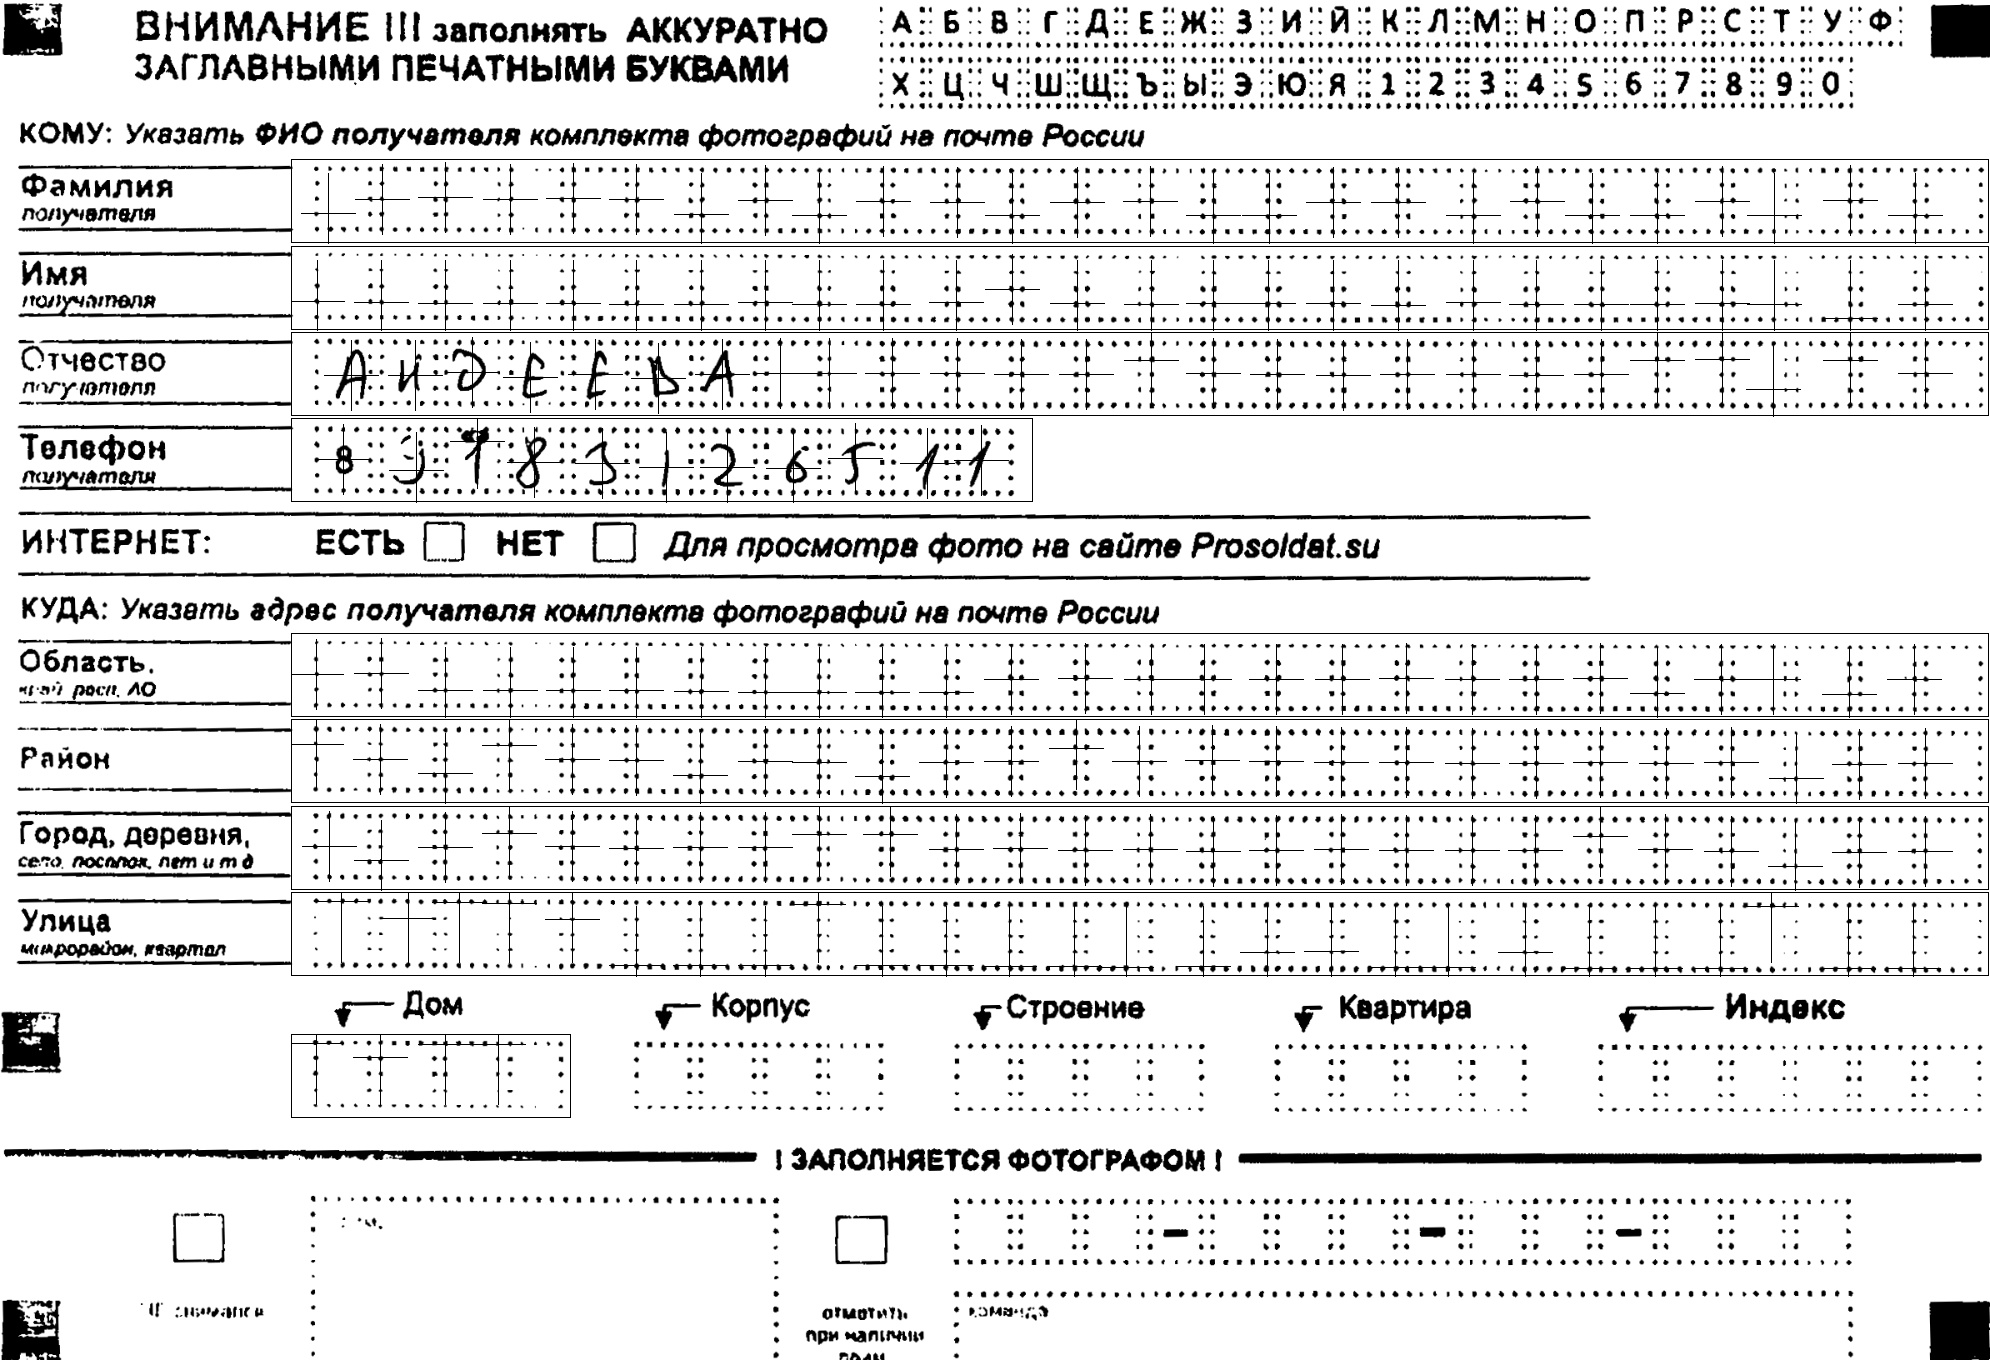
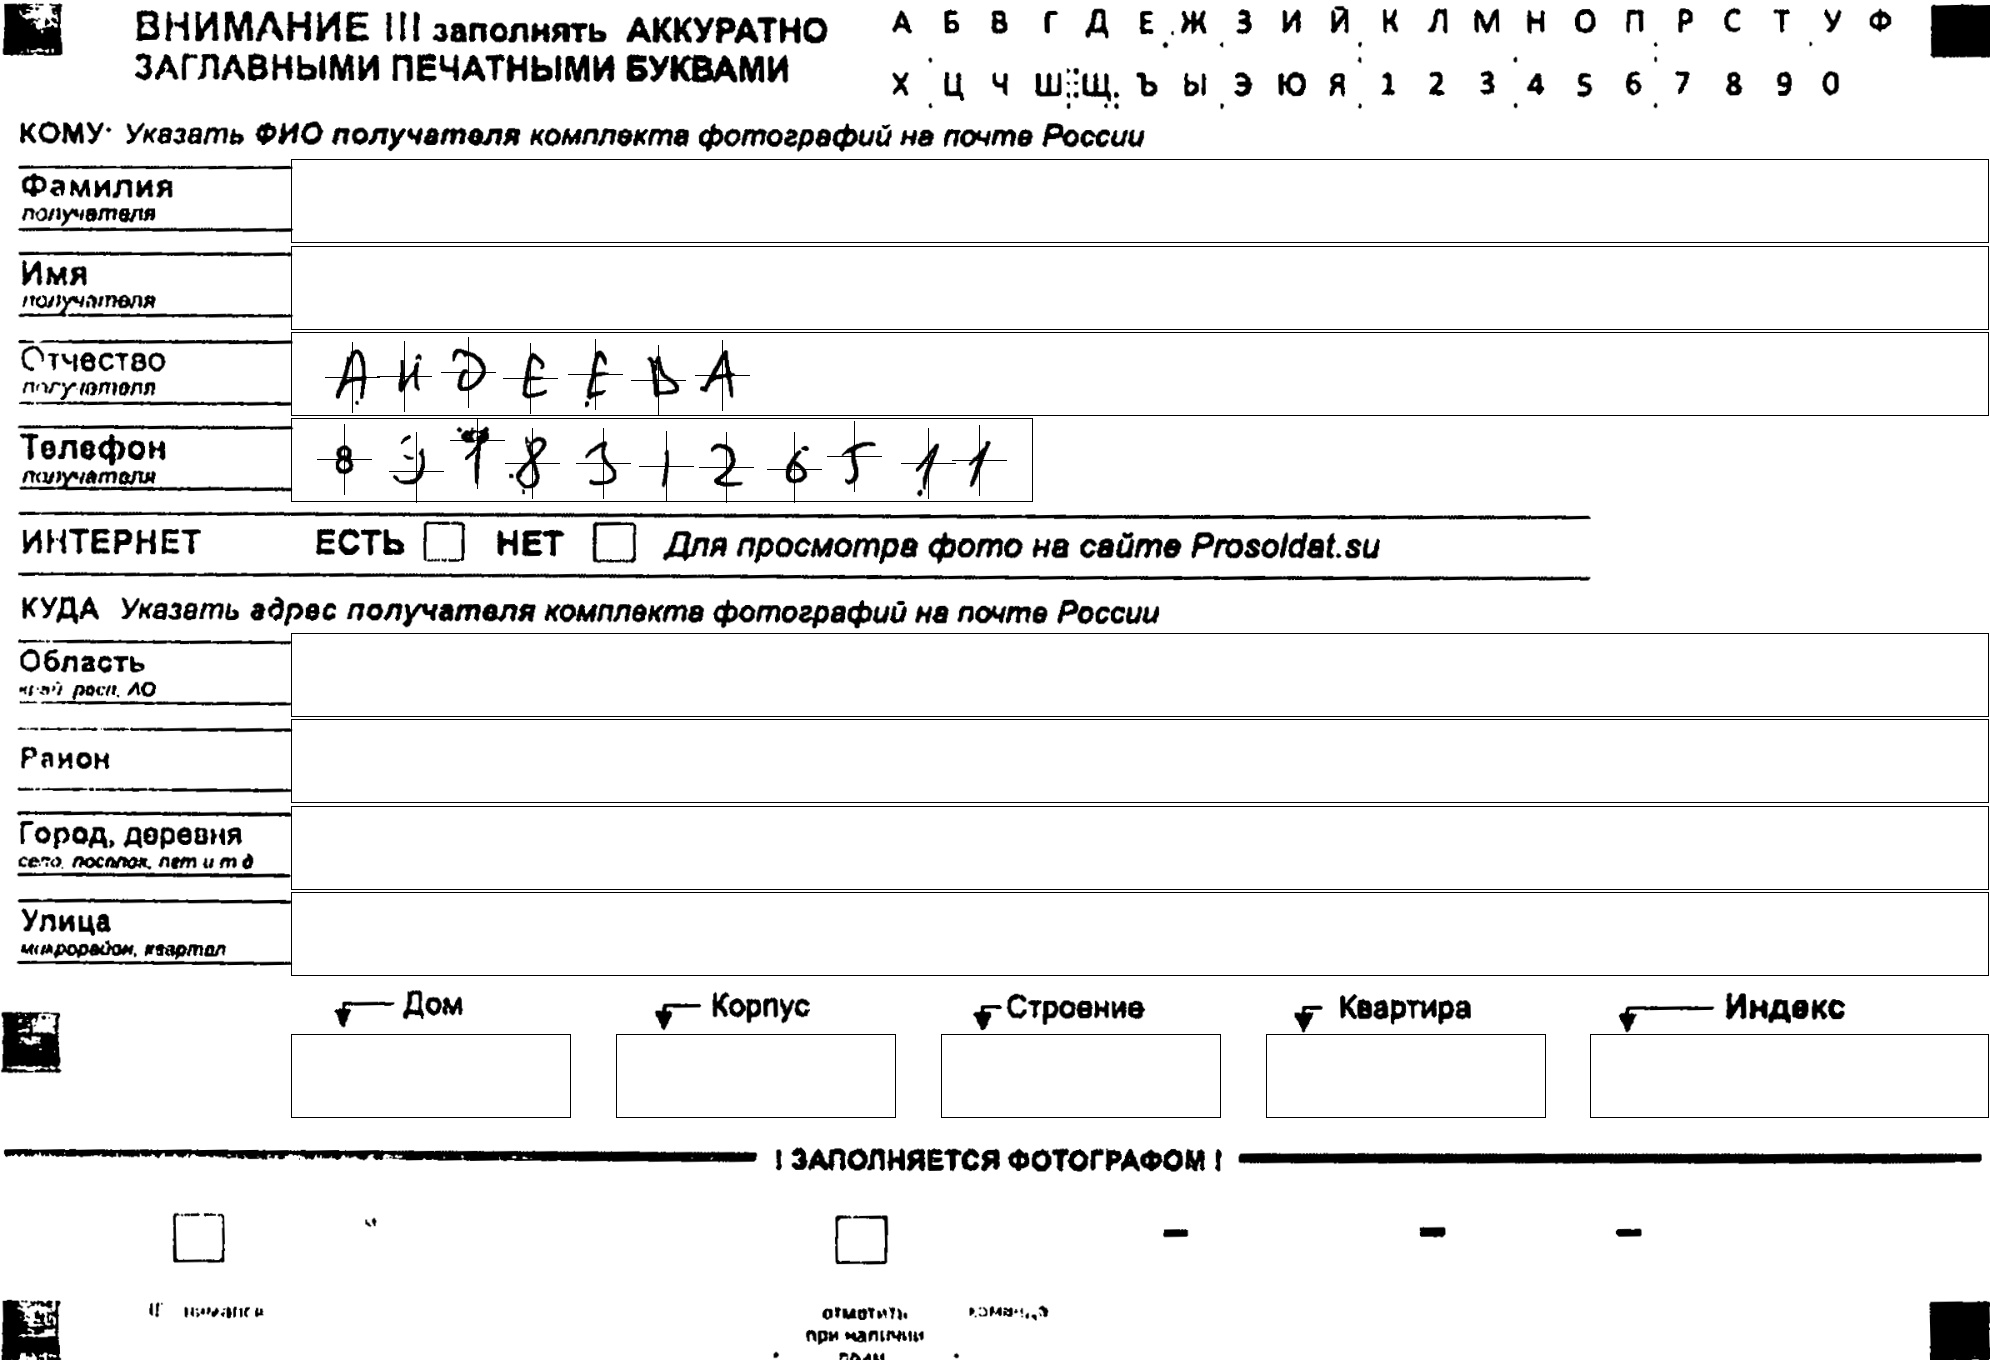
12344

diff --git a/modules/dataextractor/dataextractor.cpp b/modules/dataextractor/dataextractor.cpp
@@ -290,10 +290,13 @@ extrdata DataExtractor::_data_extract(cv::Mat& mt, const data_for_detect& d){
 		for (int j = 0; j < mtn.rows; ++j) {
 			gy[j] = 0;
 		}
-
-		int begp = xpicslist[i] - d.R_PARAMS.X_SIZE / 2;
-		if (begp < 0) begp = 0;
 		int endp = xpicslist[i] + d.R_PARAMS.X_SIZE / 2;
+		int begp = xpicslist[i] - d.R_PARAMS.X_SIZE / 2;
+		if (begp < 0) { 
+			endp -= begp;
+			begp = 0; 
+		}
+		
 		if (endp > mtn.cols ) endp = mtn.cols;
 
 		int maxvy = 0;
@@ -353,7 +356,7 @@ std::vector<extrdata> rtr::DataExtractor::data_extract(const cv::Mat& t){
 	_geom_restore(vm);// restoring position in space
 
 	if (imgparams.setted_to_250) _resize(vm);
-	
+	_dot_deleter(vm, 1, 10);
 
 #ifdef MODULAR_TEST_DATAEXTRACTOR
 vm.copyTo(modular_test_matrix);
@@ -373,5 +376,30 @@ vm.copyTo(modular_test_matrix);
 }
 
 
+
+void _dot_deleter(cv::Mat& a, int kernelbase, int corebase){
+	cv::Mat g;
+	a.copyTo(g);
+	for (int i = 0; i < g.rows - kernelbase * 2 - corebase; ++i) {
+		for (int j = 0; j < g.cols - kernelbase * 2 - corebase; ++j) {
+			unsigned int t = 0;
+			for (int k = 0; k < kernelbase * 2 + corebase; ++k) {
+					for(int o =0; o <kernelbase; ++o){
+					t += 255 - g.at<uchar>(i +o, j + k);
+					t += 255 - g.at<uchar>(i +k, j + o);
+					t += 255 - g.at<uchar>(i + kernelbase * 2 + corebase - 1 - o, j + k);
+					t += 255 - g.at<uchar>(i + k , j + kernelbase * 2 + corebase - 1- o);
+				}
+			}
+			if (t == 0) {
+				for (int k = 0; k < corebase; ++k) {
+					for (int l = 0; l < corebase; ++l) {
+						a.at<uchar>(i + kernelbase + k, j + kernelbase + l) = 255;
+					}
+				}
+			}
+		}
+	}
+}
 
 }

diff --git a/modules/dataextractor/imgtemplate.cpp b/modules/dataextractor/imgtemplate.cpp
@@ -34,7 +34,11 @@ rtr::TestImgTemplate::TestImgTemplate(int dpi){
 		data_for_detect(cm_to_pix_s(3.10),cm_to_pix_s(7.45), 26, cm_to_pix_s(0.55), cm_to_pix_s(0.71),cm_to_pix_s(0.12), IS_TEXT, "cty", cm_to_pix_s(0.71) / 3),
 		data_for_detect(cm_to_pix_s(3.10),cm_to_pix_s(8.33), 26, cm_to_pix_s(0.55), cm_to_pix_s(0.71),cm_to_pix_s(0.12), IS_TEXT, "rayon", cm_to_pix_s(0.71) / 3),
 		data_for_detect(cm_to_pix_s(3.10),cm_to_pix_s(9.21), 26, cm_to_pix_s(0.55), cm_to_pix_s(0.71),cm_to_pix_s(0.12), IS_TEXT, "street", cm_to_pix_s(0.71) / 3),
-		data_for_detect(cm_to_pix_s(3.10),cm_to_pix_s(10.65), 4, cm_to_pix_s(0.55), cm_to_pix_s(0.71),cm_to_pix_s(0.12), IS_TEXT, "house", cm_to_pix_s(0.71) / 3)
+		data_for_detect(cm_to_pix_s(3.10),cm_to_pix_s(10.65), 4, cm_to_pix_s(0.55), cm_to_pix_s(0.71),cm_to_pix_s(0.12), IS_NUMBERS, "house", cm_to_pix_s(0.71) / 3),
+		data_for_detect(cm_to_pix_s(6.40),cm_to_pix_s(10.65), 4, cm_to_pix_s(0.55), cm_to_pix_s(0.71),cm_to_pix_s(0.12), IS_NUMBERS, "korp", cm_to_pix_s(0.71) / 3),
+		data_for_detect(cm_to_pix_s(9.70),cm_to_pix_s(10.65), 4, cm_to_pix_s(0.55), cm_to_pix_s(0.71),cm_to_pix_s(0.12), IS_NUMBERS, "stre", cm_to_pix_s(0.71) / 3),
+		data_for_detect(cm_to_pix_s(13.0),cm_to_pix_s(10.65), 4, cm_to_pix_s(0.55), cm_to_pix_s(0.71),cm_to_pix_s(0.12), IS_NUMBERS, "korp", cm_to_pix_s(0.71) / 3),
+		data_for_detect(cm_to_pix_s(16.3),cm_to_pix_s(10.65), 7, cm_to_pix_s(0.55), cm_to_pix_s(0.71),cm_to_pix_s(0.12), IS_NUMBERS, "korp", cm_to_pix_s(0.71) / 3)
 	};
 }
 

diff --git a/test.cpp b/test.cpp
@@ -4,7 +4,7 @@ int main() {
 	rtr::TestImgTemplate g(300);
 	rtr::DataExtractor u(&g);
 	
-	for (int i = 1; i < 8; ++i) {
+	for (int i = 1; i < 10; ++i) {
 		auto r = cv::imread("imforproc/"+std::to_string(i)+".jpg");
 	    //auto r = cv::imread("imforproc/1_300.jpg");
 		u.data_extract(r);

diff --git a/modules/dataextractor/dataextractor.h b/modules/dataextractor/dataextractor.h
@@ -51,4 +51,9 @@ public:
 };
 
 
+void _dot_deleter(cv::Mat& a, int kernelbase, int corebase);
+//
+//
+//
+
 }
